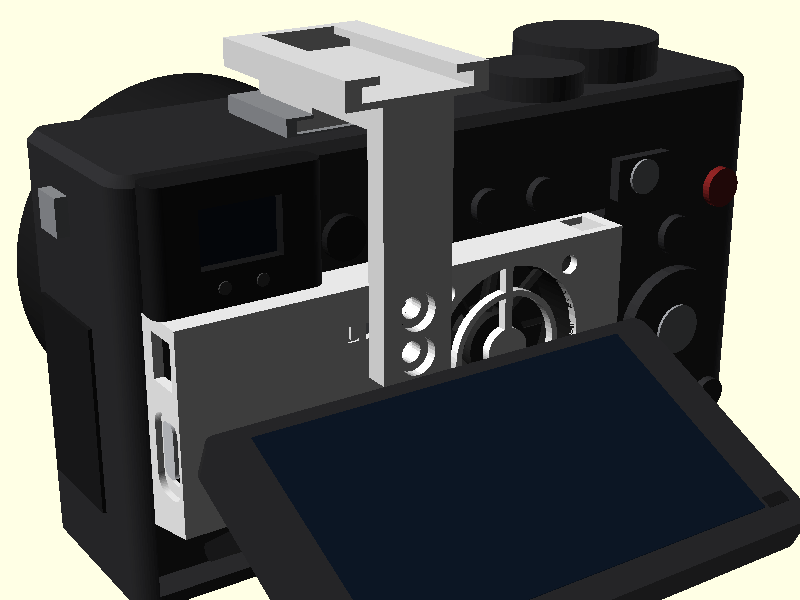
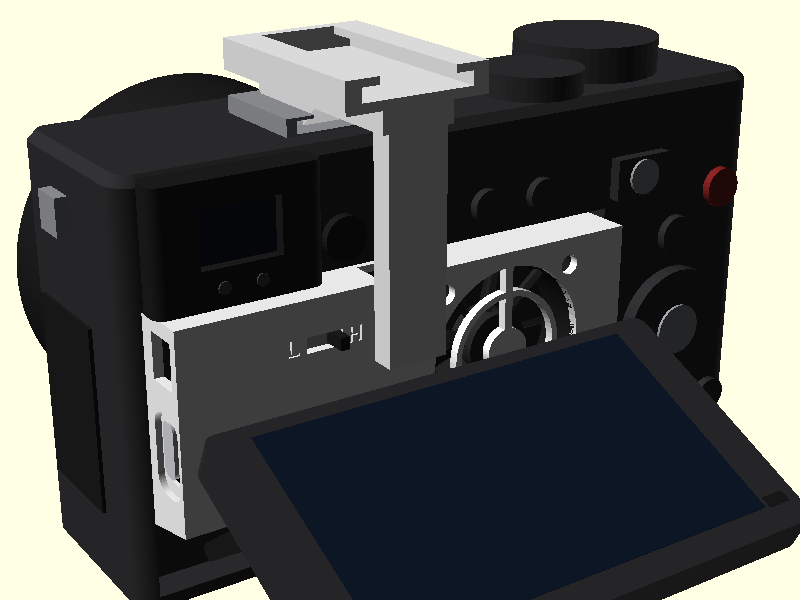
sony-a6300-fan: tool-free pin-and-socket shoe arm & reversed lug
- Save 5 brainstormed tool-free mounting options & ranking in dev/MOUNTING-NOTES.md
- Implement Option #1: tool-free locating lug with flat horizontal top shelf + 0.6 mm tip chamfers + 45-deg bottom ramp into an open-backed box front socket (zero screws/inserts)
- Print arm back-down (+Y face on bed) with 45-deg rear foot ramp/flares for continuous XY layers and support-free printing
- Relocate switch left of arm tab/socket (sw_xc = 23.65), add front pocket V-groove scribe marks to fit-test, remove top-right exhaust hole (467 mm2 unblocked), and sync previews & docs

diff --git a/sony-a6300-fan/README.md b/sony-a6300-fan/README.md
@@ -2,11 +2,12 @@
 
 A small box that sits in the screen recess on the camera's back, under the eyepiece, with the screen
 tilted out, and blows air onto the magnesium back plate for long 4K takes. It runs from USB-C on the
-cable side and has a thumbnail slide switch: Low / Off / High. A second part, an arm from the flash
-shoe, holds it. The box size comes from a cardboard test on the real camera; the arm position from
-caliper readings and photos (±2 mm). **Not printed yet.**
+cable side and has a thumbnail slide switch: Low / Off / High. A second part, a tool-free shoe arm,
+slides into the flash shoe after the box is seated and locks it in place with zero screws or inserts.
+The box size comes from a cardboard test on the real camera; the shoe and button positions from caliper
+readings and photos (±2 mm). **Not printed yet.**
 
-**Status and known problems: see [HANDOFF.md](HANDOFF.md).** The camera's dual-hinge screen linkage is now modelled and checked in the scene, and the exhaust outlets are moved outside the 5.2 mm recess (`495 mm²` unblocked vs `503 mm²` fan free area). How the box is held remains open (current plan: the tilted-up screen clamps it in place).
+**Status and known problems: see [HANDOFF.md](HANDOFF.md).** The camera's dual-hinge screen linkage is now modelled and checked in the scene, the exhaust outlets sit outside the 5.2 mm recess (`467 mm²` unblocked vs `503 mm²` fan free area), and Option #1 from [dev/MOUNTING-NOTES.md](dev/MOUNTING-NOTES.md) (tool-free pin-and-socket slide-on shoe arm, with micro-suction + screen clamp as a zero-hardware fallback) is implemented.
 
 | On the camera | Inside (front cut away) | Side | Arm and shoe |
 |---|---|---|---|
@@ -15,10 +16,11 @@ caliper readings and photos (±2 mm). **Not printed yet.**
 | File | What |
 |---|---|
 | [sony-a6300-fan.scad](sony-a6300-fan.scad) | The printable box ([preview](sony-a6300-fan.png)). Parameters at the top |
-| [sony-a6300-fan-arm.scad](sony-a6300-fan-arm.scad) | Second printable part: the shoe arm ([preview](sony-a6300-fan-arm.png)). Screws to the box's front face. `top_mount = "shoe"`, `"quarter"` or `"none"` |
-| [dev/sony-a6300-fan-fit-test.scad](dev/sony-a6300-fan-fit-test.scad) | Thin shell with the box's outside shape and front-face V-groove scribe marks (`14.5 mm` band, switch slot, fan grille), to try on the camera first |
+| [sony-a6300-fan-arm.scad](sony-a6300-fan-arm.scad) | Second printable part: tool-free pin-and-socket slide-on shoe arm ([preview](sony-a6300-fan-arm.png)). Locating lug engages the box's front pocket on `-Y` slide-in (zero screws/inserts). `top_mount = "shoe"`, `"quarter"` or `"none"` |
+| [dev/sony-a6300-fan-fit-test.scad](dev/sony-a6300-fan-fit-test.scad) | Thin shell with the box's outside shape and front-face V-groove scribe marks (`14.5 mm` band, switch slot, arm pocket, fan grille), to try on the camera first |
 | [dev/sony-a6300-fan-scene.scad](dev/sony-a6300-fan-scene.scad) | Display only: the box and arm on the camera with the fan, switch, diodes, USB-C board, wires and cable. `-D cutaway=true` |
 | [dev/a6300-camera.scad](dev/a6300-camera.scad) | Display model of the a6300 from Sony's dimensions plus measurements of a real body and a photo-fitted dual-hinge LCD linkage (arm stops at `~54°`, ±1–2 mm) |
+| [dev/MOUNTING-NOTES.md](dev/MOUNTING-NOTES.md) | Five brainstormed tool-free mounting options, physical constraints, and 3-criterion ranking |
 
 ## Parts
 
@@ -28,7 +30,7 @@ caliper readings and photos (±2 mm). **Not printed yet.**
 | Fan, ball-bearing alternative | GDSTIME 3007 5V dual ball (Amazon) | 30 × 30 × 7 | 9000 rpm, 4.1 CFM, "25 dBA ±10 %", 0.15 A. Longest life, but more bearing tick and hum |
 | Fan, best (if you find it) | Sunon MF30060V2-1000U-A99 | 30 × 30 × 6.5, fits the same box | 3.7 CFM at 15.7 dB(A). Distributors only (DigiKey, Mouser), often out of stock |
 | USB-C | **Adafruit 4090**, "USB Type C Breakout Board – Downstream Connection" | PCB 20.32 × 13.97 × 1.6, connector centred on the long edge, 2 × Ø2.5 holes 15.24 apart, 2.54 in from the connector edge | Numbers from Adafruit's Eagle board file. 5.1 kΩ on CC1 and CC2 (R1, R2), so C-to-C chargers give 5 V. Solder the wires to VBUS/GND, no header |
-| Switch | **SS13D07 mini slide switch, 1P3T** (3 positions, "L4" = 4 mm knob), e.g. XKB SS13D07L4B | Body 12.7 × 4.5 × 4.7, knob 4 mm, 2 mm per step | Sits in a printed cradle behind the front face, in the top band just left of the fan, and slides sideways; the knob pokes ~2.4 mm out. L and H engraved beside the slot |
+| Switch | **SS13D07 mini slide switch, 1P3T** (3 positions, "L4" = 4 mm knob), e.g. XKB SS13D07L4B | Body 12.7 × 4.5 × 4.7, knob 4 mm, 2 mm per step | Sits in a printed cradle behind the front face, in the top band left of the arm tab & socket, and slides sideways; the knob pokes ~2.4 mm out. L and H engraved beside the slot |
 | Low-speed diodes | 2 × 1N4001 (or 1N4007) | DO-41, 5 × 2.7 mm | ~0.8 V drop each, nearly independent of current, so the fan still starts on Low |
 | Fixing | 2 printed pins through the board holes (heat-staked), or M2.5 screws into the posts | | |
 
@@ -43,7 +45,6 @@ Prices are rough Amazon / Adafruit figures in USD. Check the listings.
 | 1 | Switch | SS13D07 slide switch, 1P3T, 4 mm knob (Amazon packs are often labelled "SS13D07 3 position") | $6 / 20 |
 | 2 | Diodes (Low speed) | 1N4001 or 1N4007, DO-41 | $5 / 100 |
 | 4 | Fan screws | M3 × 8 self-tapping (front face 1.6 + fan frame 7) | from a kit |
-| 2 | Arm screws + inserts | M3 × 6 pan head + M3 × 4 heat-set inserts (box front) | kit |
 | 1 | Top insert (optional) | 1/4"-20 heat-set insert, for `top_mount = "quarter"` and a metal cold-shoe adapter | $8 / 10 |
 | 2 | Board screws (optional) | M2.5 × 6, if you don't heat-stake the printed pins | from a kit |
 | ~30 cm | Wire | 26 AWG silicone, red + black | $8 / spool set |
@@ -59,12 +60,12 @@ Tools: soldering iron, calipers, M3 tap or screwdriver.
 
     front (operator side)
       ┌──────┬──────────┬──────────┬───┐
-      │      │     L◦H  │          │   │   switch in the top band, left of the fan; 6 mm right duct
+      │      │ L◦H  [ ] │          │   │   switch left of arm socket in top band; 6 mm right duct
     ▭─┤ bay  │ chamber  │  ( fan ) │   │   USB-C out of the left wall; fan blows onto the plate
       └──────┴──────────┴──────────┴───┘   bottom bevelled from 0 at the plate to 3 mm at the front
     solid back rim on left/top/right inside the 5.2 mm recess; exhaust windows outside the recess + bottom-back ribs
 
-**80 × 35 × 13 mm**, unblocked exhaust 495 mm² (side/top 249 + bottom-back 246; 453 mm² with `arm_mount`) vs 503 mm² fan free area.
+**80 × 35 × 13 mm**, unblocked exhaust 467 mm² (side/top 221 + bottom-back 246) vs 503 mm² fan free area.
 
 - **Size, from the cardboard test on the camera:** 35 mm tall against the plate (36 just squeezes in) and 32.5 mm at the
   front in the test; the box goes to 32 (`slant_rise = 3`, about the most before the bevel reaches the fan). The
@@ -84,20 +85,20 @@ Tools: soldering iron, calipers, M3 tap or screwdriver.
   Mount the fan with the label side (the outlet) toward the camera.
 - **Airflow:** blowing onto the plate cools better than sucking air off it. Because the camera's recess is 5.2 mm deep, the left,
   top, and right walls keep a solid 5.6 mm back rim inside the recess; unblocked exhaust windows sit outside the recess (`Y = 5.6..11.4`
-  from the plate) on the right wall (4 × 5.85 mm slots), top wall right of the fan, top wall left of the fan (cleared when `arm_mount = true`),
+  from the plate) on the right wall (4 × 5.85 mm slots), top wall left of the fan (the socket collar stops 1.15 mm below the top wall, so the upper-left window stays completely open),
   and left wall above the USB-C board. Ten ribbed slots along the bottom-back edge (`Y = 0..4.4`) vent behind the solid bottom bevel and
   screen hinge arm, baffled from the intake wedge.
 - **USB-C:** the board stands parallel to the front face on two posts from the front wall. Outside, the left wall is
   counterbored down to 0.6 mm around the opening so the plug's overmold sits in it and the plug reaches full depth.
-- **Switch:** in the front face just left of the fan (`X_cam ≈ 37.6`), in the top band the tilted screen never covers, about 7 mm
-  below the top and ~7.5 mm right of the rubber eyecup (`3.1 mm` proud of it). The knob sticks out ~2.4 mm.
+- **Switch:** in the front face left of the arm tab & socket (`sw_xc = 23.65`, `X_cam ≈ 27.7`), in the top band the tilted screen never covers, 7 mm
+  below the top (`~7.3 mm` below the rubber eyecup, `3.1 mm` proud at the front face / `~5.5 mm` at the knob tip).
 - **Eye sensor:** it sits on the eyepiece, right above the box. Set *FINDER/MONITOR → Monitor (manual)*.
-- **Mounting: shoe arm** ([sony-a6300-fan-arm.scad](sony-a6300-fan-arm.scad), [close-up](dev/scene-mount.png)).
-  A foot (ISO 518, 18.4 × 16 × 1.9 mm) slides into the camera's shoe from the back, a bridge crosses the top
-  edge and the hump behind the shoe, and a 12 × 4 mm tab drops in front of the box. It screws to the box's
-  front face with 2 × M3 × 6 into M3 × 4 heat-set inserts, inside the top 14.5 mm band the tilting screen never
-  reaches, left of the fan. The tab clears the flash button by about 12 mm. A printed cold shoe on top keeps the
-  shoe usable for a light mic; `top_mount = "quarter"` gives a 1/4"-20 insert for a metal shoe adapter.
+- **Mounting: tool-free pin-and-socket slide-on shoe arm** ([sony-a6300-fan-arm.scad](sony-a6300-fan-arm.scad), [close-up](dev/scene-mount.png), [dev/MOUNTING-NOTES.md](dev/MOUNTING-NOTES.md)).
+  After sliding the box into the screen recess, slide the arm `-Y` into the camera's flash shoe:
+  - Its ISO 518 foot (`18.4 × 16 × 1.9 mm` footprint, 45° rear taper leaving `~10.1 mm` full-width rail / `13.25 mm` total lip/floor engagement) has `0.8 mm` 45° front-entry corner chamfers and two `0.2 mm` tapered underside friction ribs engaging the shoe floor spring;
+  - A `10 × 4 mm` drop-tab stays inside the top `14.5 mm` screen-free band (`13.15 mm` clear of the flash button, `2.5 mm` above the 65° LCD / `7.0 mm` at 90°), carrying a `6.0 × 6.0 × 4.2 mm` locating lug with a **flat horizontal load-bearing top shelf** (`3.4 mm` flat bearing inside the socket + `0.6 mm` top/side tip lead-in chamfers) and a **45° bottom ramp**;
+  - During the final ~4 mm of shoe travel, the lug seats into the `6.5 × 6.5 × 4.6 mm` open-backed front socket on the box, taking gravity in pure vertical shear (zero backward wedging force) and locking all 6 DOF with zero screws or inserts (the same box also works standalone with micro-suction pads + tilted screen clamp as a zero-hardware fallback).
+  - A printed cold shoe on top keeps the shoe usable for a light mic; `top_mount = "quarter"` gives a 1/4"-20 insert for a metal shoe adapter.
 - **Material:** PETG or ASA, not PLA.
 
 ## Printing
@@ -107,8 +108,8 @@ Both are manifold and print **without supports** (checked with `tools/stl-check.
 
 | Part | On the bed | Watch |
 |---|---|---|
-| Box | Front face (grille) down, open back up | Short horizontal bridges only: 4.9–7.3 mm over the side/top exhaust windows (bridged by the solid back rim), 4 mm over the insert holes, 6–8 mm over the USB-C opening. Bottom-back ribs are open to the top. The posts, insert bosses, switch cradle and lower bay divider grow straight up from the front plate |
-| Arm | Upside down, on the top shoe block | 18.8 mm bridge over the top shoe's slot. The foot's flanges overhang the neck by 3.2 mm: print slowly with full cooling, and sand lightly if they droop (that face slides under the camera shoe's lips). The tab grows straight up |
+| Box | Front face (grille) down, open back up | Short horizontal bridges only: 4.9–7.3 mm over the side/top exhaust windows (bridged by the solid back rim), 6–8 mm over the USB-C opening. Bottom-back ribs are open to the top. The open-backed pin socket collar, posts, switch cradle and lower bay divider grow straight up from the front plate with zero bridges or overhangs |
+| Arm | Lying flat on its back (`+Y` tab/bridge/top-block face down, `-Y` up) | Zero faces flatter than 45° (`tools/stl-check.py`): continuous XY perimeters wrap the bridge-to-tab corner for bending strength, the flat-top / 45°-bottom-ramped lug grows straight up support-free off the tab, and the 45° rear foot taper eliminates the old `3.2 mm` foot flange overhangs and `18.8 mm` cold-shoe ceiling bridge (only a small front-stop bridge remains on the top cold shoe) |
 
 PETG or ASA, 0.2 mm layers, 3 perimeters. Print the fit-test shell and the arm first: check the shell on the camera and the foot in the shoe.
 
@@ -157,10 +158,9 @@ on **thermal tape** under the fan may add a little. Plain double-sided tape insu
 
 ## Steps
 
-1. Print the fit-test shell (15 min) and check it on the camera: sits flat on the plate under the eyepiece, the
-   screen still tilts up far enough to see from above.
-2. Print the arm and check the foot in the shoe, and that the tab lines up with the box's top band.
-3. Order the parts above, plus a short right-angle C-to-C cable.
-4. Print the box, set the two inserts, wire it, fit it.
+1. Print the fit-test shell ([dev/sony-a6300-fan-fit-test.scad](dev/sony-a6300-fan-fit-test.scad), ~15 min) and the arm ([sony-a6300-fan-arm.scad](sony-a6300-fan-arm.scad)) first: verify recess fit, hinge bevel clearance, shoe friction retention, lug-to-socket alignment against the front pocket scribe marks, and thumb reach to the switch under the eyecup.
+2. Check that the screen still tilts up far enough to see from above without crossing the `14.5 mm` scribe line.
+3. Order the parts above, plus a short right-angle C-to-C cable (no M3 arm screws or inserts needed).
+4. Print the box, wire it, fit it.
 5. Test with 4K, Auto Pwr OFF Temp = High, the 30-min cap removed, and a dummy battery. Log the time to the
    overheat warning with and without the fan, at the same room temperature.

diff --git a/sony-a6300-fan/HANDOFF.md b/sony-a6300-fan/HANDOFF.md
@@ -29,11 +29,23 @@ It needs 5 V from USB-C and has Low / Off / High.
   clearance `+0.4 mm`.
 - **Unblocked exhaust and open grille in `sony-a6300-fan.scad`.** Fan shifted left (`fan_x = 42.1`) to open
   a `6 mm` right exhaust duct; left, top, and right walls keep a solid `5.6 mm` back rim inside the `5.2 mm`
-  recess, while `495 mm²` of unblocked exhaust (`249 mm²` side/top at `Y = 5.6..11.4` + `246 mm²` bottom-back
-  at `Y = 0..4.4` behind the hinge-arm baffle; `453 mm²` with `arm_mount = true`) matches the `503 mm²` fan
-  free area. Single-ring open grille leaves the upper blade arc open; lower bay divider stops at `usb_zc`.
+  recess, while `467 mm²` of unblocked exhaust (`221 mm²` side/top at `Y = 5.6..11.4` + `246 mm²` bottom-back
+  at `Y = 0..4.4` behind the hinge-arm baffle) matches the `503 mm²` fan free area (small top-right hole `tx_r`
+  removed). Single-ring open grille leaves the upper blade arc open; lower bay divider stops at `usb_zc`.
+- **Tool-free pin-and-socket slide-on shoe arm (`sony-a6300-fan-arm.scad` + `sony-a6300-fan.scad`).** `arm_mount = true`
+  by default. A `6.0 × 6.0 × 4.2 mm` locating lug with a flat horizontal load-bearing top shelf (`3.4 mm` bearing
+  inside the socket + `0.6 mm` top/side tip lead-in chamfers) and a 45° bottom ramp engages a `6.5 × 6.5 × 4.6 mm`
+  open-backed front socket on `-Y` shoe slide-in in pure vertical shear with zero screws or heat-set inserts.
+  The arm prints lying flat on its back (`+Y` tab/bridge/top-block face on the bed, `-Y` up) with continuous XY
+  fibers around the bridge-to-tab corner and a 45° rear foot taper (`~10.1 mm` full-width rail / `13.25 mm` total
+  lip/floor engagement), eliminating the old `3.2 mm` foot overhangs and `18.8 mm` cold-shoe ceiling bridge (`0`
+  faces flatter than 45°, manifold). The switch was relocated to `sw_xc = 23.65` (`X_cam ≈ 27.7`) with hard
+  `assert`s preventing overlap; `tab_above_lcd = +2.5 mm` at 65° / `+7.0 mm` at 90° (`13.15 mm` clear of flash
+  button), and full `467 mm²` exhaust is preserved (socket collar stops `1.15 mm` below the top wall). Brainstormed
+  alternatives and 3-criterion rankings are saved in `dev/MOUNTING-NOTES.md`.
 - **Front-scribed fit-test shell (`dev/sony-a6300-fan-fit-test.scad`).** Adds front-face 45° V-grooves for
-  the `14.5 mm` screen-free band, switch slot outline, and fan grille circle alongside the side depth V-grooves.
+  the `14.5 mm` screen-free band, switch slot outline, arm-socket pocket outline, and fan grille circle alongside
+  the side depth V-grooves.
 - **Printability.** Box, arm and fit-test shell export manifold and print without supports. Checked with
   `tools/stl-check.py`.
 
@@ -44,26 +56,25 @@ It needs 5 V from USB-C and has Low / Off / High.
    `lcd_tb`); at `90°`, `16.5 mm` / `22.9 mm` is clear above the screen. The rest draws through the
    open-sided wedge behind the screen, so airflow will be lower than the fan's rating by an unknown amount.
    Consequences:
-   - **Switch.** Placed in the top band, left of the fan (`sw_from_top = 7`, `6.3 mm` above the screen at
-     `65°`), about `7.5 mm` right of the rubber eyecup (`3.1 mm` proud of it). Check with the fit-test shell
-     that a finger reaches it comfortably past the eyecup and diopter wheel.
+   - **Switch.** Placed in the top band left of the arm tab & socket (`sw_xc = 23.65`, `X_cam ≈ 27.7`,
+     `sw_from_top = 7`, `6.3 mm` above the screen at `65°`), `~7.3 mm` below the rubber eyecup (`3.1 mm` box
+     front / `~5.5 mm` knob tip proud of it) and clear of the arm tab. Check with the fit-test shell that a
+     thumb reaches it comfortably under the eyecup.
 2. **Exhaust blockage is fixed in CAD, but airflow/recirculation isn't tested on hardware.** Side and top
    outlets now sit past the `5.2 mm` recess (`Y = 5.6..11.4`) and the `10` bottom-back slots sit behind the
    solid bevel that baffles them from the front intake wedge; thermal performance and lack of warm-air
    recirculation remain to be measured on the camera.
-3. **Holding it on the camera is not settled.**
-   - **The screen limits how the box goes in.** In the photos the screen is tilted up as far as it goes, and
-     that still doesn't leave room to push the box straight toward the plate. So the box goes in sideways
-     or with the screen down. Once it's in, flip the screen up and it clamps the box.
-   - **Current plan, no holder:** the tilted-up screen presses the box against the plate, and the recess
-     walls and the eyepiece stop it moving sideways and up. You shoot with the screen up. The arm's screw
-     bosses are off (`arm_mount = false`).
-     - **Risk:** it falls out when the screen is moved.
-     - **Cheap backup:** a thin micro-suction or removable adhesive pad on the box's back feet, or a cord
-       to a strap lug.
-   - **Option: screwed shoe arm** (`sony-a6300-fan-arm.scad`). The foot goes in the flash shoe, a bridge
-     runs over the top, and a tab screws to the box's front in the top band. The arm file turns the
-     bosses on, but they collide with the switch's new spot (the file warns). One of them must move first.
+3. **Holding it on the camera works on paper (Option #1), but friction/alignment need a real-camera check.**
+   - **Orthogonal entry constraint.** Because the tilted-up screen blocks pushing the box straight forward (`-Y`)
+     once tilted, the box enters from the side or with the screen lowered; meanwhile, a hot-shoe foot enters
+     `-Y` inside the top `14.5 mm` screen-free band. See `dev/MOUNTING-NOTES.md` for all 5 ranked options.
+   - **Primary design (Option #1): tool-free pin-and-socket slide-on shoe arm** (`arm_mount = true`, zero screws
+     or inserts; previous switch/boss collision resolved). Unproven on real hardware: shoe-spring friction
+     retention (`foot_rib_h = 0.2 mm` tapered underside ribs + `0.8 mm` entry chamfers) and lug-to-socket X
+     alignment (`shoe` centre is `~41 mm ±1.5 mm` from photos).
+   - **Zero-hardware fallback (Option #2):** the same box works without the arm using thin (`~0.5 mm`)
+     micro-suction / washable silicone pads on the back rim plus the tilted-up screen clamp (`arm_mount = false`
+     optional, or simply omit the arm).
    - **Ruled out: a one-piece slide-in** (arm built into the box, pushed toward the lens so the foot enters
      the shoe as the box seats). The screen can't get far enough out of the way. A one-piece holder would
      need a sideways entry, e.g. a dovetail.
@@ -86,18 +97,19 @@ It needs 5 V from USB-C and has Low / Off / High.
 | File | Role |
 |---|---|
 | `sony-a6300-fan.scad` | Box. All parameters at the top. `orient = "print"` (front face down) or `"display"` |
-| `sony-a6300-fan-arm.scad` | Optional screwed shoe arm. Includes the box file for shared numbers |
-| `dev/sony-a6300-fan-fit-test.scad` | 1.2 mm shell with the box's outside shape, side depth V-grooves, and front scribe V-grooves. Print this before the box |
+| `sony-a6300-fan-arm.scad` | Tool-free pin-and-socket slide-on shoe arm. Includes the box file for shared numbers |
+| `dev/sony-a6300-fan-fit-test.scad` | 1.2 mm shell with the box's outside shape, side depth V-grooves, and front scribe V-grooves (band, switch, arm pocket, grille). Print this before the box |
 | `dev/sony-a6300-fan-scene.scad` | Display only: box, arm, parts and wires on the camera, plus LCD clearance checks. `-D cutaway=true` |
 | `dev/a6300-camera.scad` | Display model: Sony's dimensions, caliper measurements, and photo-fitted dual-hinge LCD linkage |
+| `dev/MOUNTING-NOTES.md` | Five brainstormed tool-free mounting options, physical constraints, and 3-criterion ranking |
 
 Render with the CI image (see the repo's AGENTS.md). Preview mode (no `--render`) keeps the colours.
 
 ## Next steps
 
-1. Print the fit-test shell (`dev/sony-a6300-fan-fit-test.scad`, ~15 min) and check it on the camera: recess fit,
-   bottom-bevel clearance against the hinge arm, that the tilted screen clamps the box without crossing the
-   front scribe line, switch reach beside the eyecup/diopter, and the photo-fitted linkage clearances.
-2. Decide on holding: no holder plus a backup pad, or the screwed arm (move the switch or the bosses).
-3. Order parts, print the box, wire it, and test: 4K, Auto Pwr OFF Temp = High, dummy battery. Log the time
-   to the overheat warning with and without the fan, at the same room temperature.
+1. Print `dev/sony-a6300-fan-fit-test.scad` (~15 min) and `sony-a6300-fan-arm.scad` to verify recess fit,
+   bevel/hinge clearance, shoe friction fit (`foot_rib_h`), lug-to-socket alignment (`arm_xc`) against the
+   front pocket scribe marks, and switch thumb reach under the eyecup.
+2. Adjust `arm_xc` or `foot_rib_h` if needed (or switch to the micro-suction fallback in `dev/MOUNTING-NOTES.md`).
+3. Order parts (no M3 arm screws/inserts needed), print the box, wire it, and test: 4K, Auto Pwr OFF Temp = High,
+   dummy battery. Log the time to the overheat warning with and without the fan, at the same room temperature.

diff --git a/sony-a6300-fan/dev/MOUNTING-NOTES.md b/sony-a6300-fan/dev/MOUNTING-NOTES.md
@@ -1,0 +1,53 @@
+# Mounting notes: Sony a6300 rear cooling fan
+
+Why screwing a shoe arm to the box is awkward, the 5 tool-free alternatives considered, and why Option #1 was chosen.
+
+## Physical constraints
+
+Once seated in the camera's `5.2 mm` deep screen recess (`X = 4..84 mm`), five of the box's six degrees of freedom are constrained by the body and screen:
+
+- `-Y` (forward): magnesium back plate
+- `+Z` (up): EVF eyepiece and top frame
+- `±X` (left / right): recess side walls
+- `-Z` (down): LCD hinge arm (when the screen is tilted up)
+
+Only `+Y` (falling backward out of the recess) and `-Z` (when the screen is folded down) need retention. Because the tilted-up screen blocks pushing the box straight forward (`-Y`), the box enters from the side or with the screen lowered, whereas a hot-shoe foot must slide straight forward (`-Y`) into the Multi Interface Shoe. Screwing the arm to the box after seating requires tools on every install/removal.
+
+## Five tool-free options
+
+### 1. Tool-free pin-and-socket slide-on shoe arm (implemented)
+- **Mechanism:** Seat the box in the recess first, then slide the shoe arm straight forward (`-Y`) into the hot shoe. The arm's drop-tab stays inside the `14.5 mm` screen-free top band and carries a `6 × 6 mm` locating lug (`4.2 mm` long) with a flat horizontal load-bearing top shelf (`3.4 mm` bearing inside the socket + `0.6 mm` top/side tip lead-in chamfers) and a 45° bottom ramp that engages a matching open-backed pocket (`6.5 × 6.5 mm`, `4.6 mm` deep) on the box's front face during the last ~4 mm of hot-shoe travel. Tapered underside ribs on the ISO 518 foot engage the camera shoe's leaf spring for friction retention, while back-down printing puts continuous XY layers around the bridge-to-tab corner.
+- **Pros:** Zero screws or heat-set inserts, 2-second attach/detach, positive 6-DOF lock in pure vertical shear (no backward wedging force) even when the screen moves, preserves a passive cold shoe on top and all `467 mm²` of exhaust.
+- **Cons:** Occupies the camera's electronic MI shoe (blocks MI-interface mics/flashes), 2 parts when packed.
+
+### 2. Micro-suction / washable silicone pads + screen clamp (zero-hardware fallback)
+- **Mechanism:** Keep a single-piece box and apply `~0.5 mm` micro-suction tape (e.g. Yupo Tako / Sewell AirStick) to the solid back rim against the magnesium plate, backed up by the tilted-up screen during shooting.
+- **Pros:** Simplest single-part print, hot shoe and tripod socket remain 100% free, residue-free removal.
+- **Cons:** Pad thickness (`0.5–0.8 mm`) eats into the `0.4–1.5 mm` front screen clearance (`air_gap` may need `-0.5 mm`), pads lose grip if dusty until wiped, weaker knock resistance with the screen closed.
+
+### 3. Magnetic snap-on with thin steel shims
+- **Mechanism:** Stick two `0.2–0.3 mm` steel shims inside the upper recess corners (clear of the closed hinge arm) on the non-magnetic magnesium plate, and embed small N52 magnets (e.g. `6 × 2 mm`) flush into the box's back rim.
+- **Pros:** 1-second snap-on, positive retention regardless of screen angle, hot shoe stays free.
+- **Cons:** Requires adhering permanent/semi-permanent metal strips to the camera recess and keeping them clear of the folding LCD arm; needs BOM magnets.
+
+### 4. Elastic shock-cord / silicone band to camera strap lugs
+- **Mechanism:** Add upper-corner cord notches on the box and stretch a thin elastic loop or `2 mm` shock cord to the camera's left and right strap lugs.
+- **Pros:** Tolerant of dimensions, acts as a drop tether, keeps hot shoe and tripod socket free.
+- **Cons:** On the a6300, a cord running from the box's right edge (`X = 84, Z ≈ 43`) to the right strap lug (`X = 120.5, Z = 55, Y = -16`) crosses directly over the `AF/MF-AEL` lever, `MOVIE` button, and thumb rest; competes with neck/wrist straps.
+
+### 5. Bottom `1/4"-20` tripod plate with rear-left wrap-around clip
+- **Mechanism:** Baseplate secured to the bottom `1/4"-20` socket with a tool-free D-ring screw (pass-through thread underneath) and a vertical wrap-around arm on the rear-left corner.
+- **Pros:** Rigid mechanical mount leaving the hot shoe completely free.
+- **Cons:** Fights the bottom LCD hinge arm, the bottom battery/dummy-battery door, the left terminal door, and our box's left-wall USB-C plug; bulky and slow to screw off (only worthwhile if built into a metal camera cage).
+
+## Ranking
+
+Scored out of 5 across **Physical Requirements** (orthogonal entry, 6-DOF lock, clearance, unobstructed ports/controls), **Practicality** (speed, tool-free daily use, shoe/ergonomics, durability), and **Ease of Execution** (CAD, support-free printability, BOM/tolerances):
+
+| Rank | Option | Physical Req. | Practicality | Ease of Execution | Notes |
+|---|---|---|---|---|---|
+| **1** | **Tool-free Pin-and-Socket Shoe Arm** | **5 / 5** | **4.5 / 5** | **4 / 5** | Chosen primary mount (`sony-a6300-fan-arm.scad` + `sony-a6300-fan.scad`) |
+| **2** | **Micro-Suction Pads + Screen Clamp** | **3.5 / 5** | **4.5 / 5** | **5 / 5** | Zero-hardware fallback (same box works without the arm) |
+| **3** | **Magnetic Snap-On (Steel Shims)** | **4.5 / 5** | **4 / 5** | **3.5 / 5** | Best free-shoe alternative if sticking shims to the body is acceptable |
+| **4** | **Strap-Lug Elastic Band** | **3 / 5** | **3 / 5** | **4.5 / 5** | Tripod-only compromise; crosses right thumb controls |
+| **5** | **Bottom `1/4"-20` Wrap-Around Plate** | **2.5 / 5** | **2 / 5** | **2 / 5** | Interferes with hinge arm, battery door, terminal door, and USB-C |
